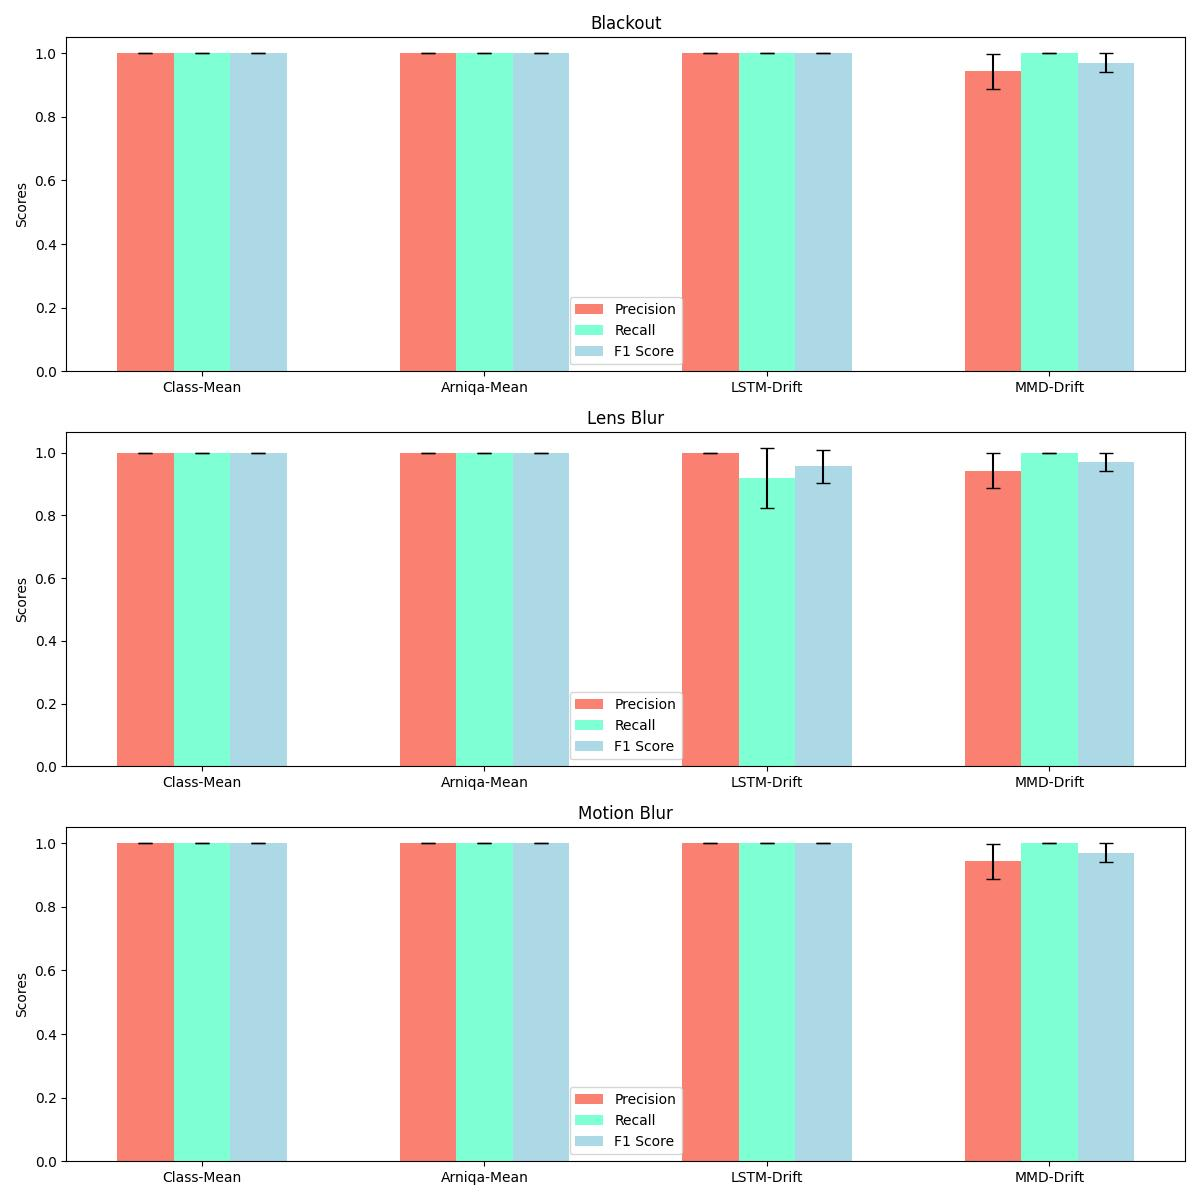
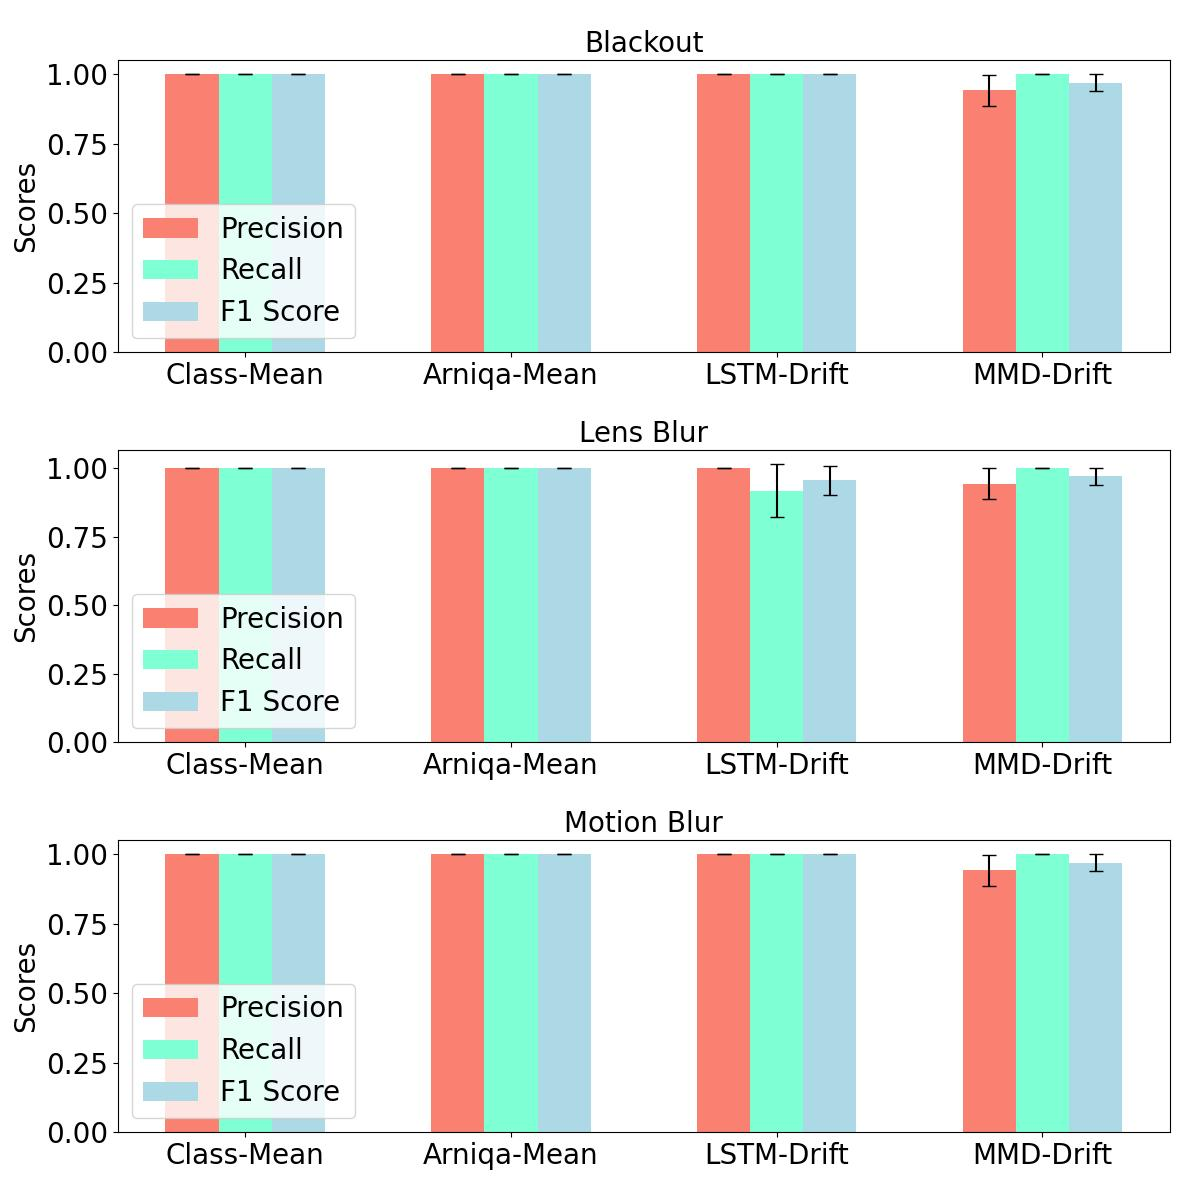
changes

diff --git a/tabs_and_plots.py b/tabs_and_plots.py
@@ -1,7 +1,7 @@
 import pandas as pd
 import matplotlib.pyplot as plt
 from tabulate import tabulate
-
+import sys
 #stats_df = pd.read_csv('stats.csv')
 stats_df = pd.read_csv('stats.csv.stable')
 
@@ -52,10 +52,10 @@ for i in range(0,3):
     print()
 
 
-fig, axes = plt.subplots(nrows=4, ncols=1,figsize=(10, 8))
-plot_df = pd.read_csv('diagnostic_values.csv')
-#plot_df = pd.read_csv('diagnostic_values.csv.stable')
-
+fig, axes = plt.subplots(nrows=3, ncols=1,figsize=(10, 8))
+plot_df = pd.read_csv(str(sys.argv[1]))
+# plot_df = pd.read_csv('diagnostic_values.csv.stable')
+plt.rcParams.update({'font.size': 17})
 tape = plot_df["window_tape"][0].strip("[]").split(", ")
 
 plot_df = plot_df.rename(columns={'drift_p_val':'p-value', 'driftref':'lower warning limit', 
@@ -65,39 +65,40 @@ plot_df = plot_df.rename(columns={'drift_p_val':'p-value', 'driftref':'lower war
                                   }
                                   )
 
-plot_df[["p-value", "lower warning limit"]].plot(ax=axes[3], yticks=[0.05, 1.0], style=["-", "-."], color=['#1f77b4', 'red'])
-axes[3].axvline(x=int(tape[0]), ymin=0, ymax=1, color="gray", linestyle="-.")
-axes[3].axvline(x=int(tape[1])-1, ymin=0, ymax=1, color="gray", linestyle="-.")
-axes[3].fill_betweenx([0,1], int(tape[0]), int(tape[1])-1, color="gray", alpha=0.2)
-axes[3].fill_betweenx([0.0, 0.05], 0, len(plot_df)-1, color="red", alpha=0.2 )
-axes[3].set_ylabel("mmd drift")
+
 
 plot_df = plot_df.rename(columns={'mean_image_quality':'mean image quality', 'iqref':'lower warning limit'})
-plot_df[["mean image quality", "iq lower warning limit"]].plot(ax=axes[1], yticks=[1.0, plot_df['iq lower warning limit'][0], 0.0], style=["-", "-."], color=['#1f77b4', 'red'])
-axes[1].axvline(x=int(tape[0]), ymin=0, ymax=1, color="gray", linestyle="-.")
-axes[1].axvline(x=int(tape[1])-1, ymin=0, ymax=1, color="gray", linestyle="-.")
-axes[1].fill_betweenx([0,1], int(tape[0]), int(tape[1])-1, color="gray", alpha=0.2)
-axes[1].fill_betweenx([0.0, plot_df['iq lower warning limit'][0]], 0, len(plot_df)-1, color="red", alpha=0.2 )
-axes[1].set_ylabel("arniqa mean")
-
-
-plot_df[["lstm drift detection", "lstm upper warning limit"]].plot(ax=axes[2], yticks=[1.0, 0.5, 0.0], style=["-", "-."], color=['#1f77b4', 'red'])
-axes[2].axvline(x=int(tape[0]), ymin=0, ymax=1, color="gray", linestyle="-.")
-axes[2].axvline(x=int(tape[1])-1, ymin=0, ymax=1, color="gray", linestyle="-.")
-axes[2].fill_betweenx([0,1], int(tape[0]), int(tape[1])-1, color="gray", alpha=0.2)
-axes[2].fill_betweenx([0.5, 1.0], 0, len(plot_df)-1, color="red", alpha=0.2 )
-axes[2].set_ylabel("lstm drift")
-
-
-plot_df[["classification mean", "class mean upper warning limit"]].plot(ax=axes[0], yticks=[1.0, 0.5, 0.0], style=["-", "-."], color=['#1f77b4', 'red'])
+plot_df[["mean image quality", "iq lower warning limit"]].plot(ax=axes[0], yticks=[1.0, plot_df['iq lower warning limit'][0], 0.0], style=["-", "-."], color=['#1f77b4', 'red'], fontsize=20)
 axes[0].axvline(x=int(tape[0]), ymin=0, ymax=1, color="gray", linestyle="-.")
 axes[0].axvline(x=int(tape[1])-1, ymin=0, ymax=1, color="gray", linestyle="-.")
 axes[0].fill_betweenx([0,1], int(tape[0]), int(tape[1])-1, color="gray", alpha=0.2)
-axes[0].fill_betweenx([0.5, 1.0], 0, len(plot_df)-1, color="red", alpha=0.2 )
-axes[0].set_ylabel("class mean")
+axes[0].fill_betweenx([0.0, plot_df['iq lower warning limit'][0]], 0, len(plot_df)-1, color="red", alpha=0.2 )
+axes[0].set_ylabel("arniqa mean", fontsize=20)
 
-axes[3].set_xlabel("# of 24-frame instances")
-plt.savefig("zurich_blackout_44.jpg")
+
+plot_df[["lstm drift detection", "lstm upper warning limit"]].plot(ax=axes[1], yticks=[1.0, 0.5, 0.0], style=["-", "-."], color=['#1f77b4', 'red'], fontsize=20)
+axes[1].axvline(x=int(tape[0]), ymin=0, ymax=1, color="gray", linestyle="-.")
+axes[1].axvline(x=int(tape[1])-1, ymin=0, ymax=1, color="gray", linestyle="-.")
+axes[1].fill_betweenx([0,1], int(tape[0]), int(tape[1])-1, color="gray", alpha=0.2)
+axes[1].fill_betweenx([0.5, 1.0], 0, len(plot_df)-1, color="red", alpha=0.2 )
+axes[1].set_ylabel("lstm drift", fontsize=20)
+
+plot_df[["p-value", "lower warning limit"]].plot(ax=axes[2], yticks=[0.05, 1.0], style=["-", "-."], color=['#1f77b4', 'red'], fontsize=20)
+axes[2].axvline(x=int(tape[0]), ymin=0, ymax=1, color="gray", linestyle="-.")
+axes[2].axvline(x=int(tape[1])-1, ymin=0, ymax=1, color="gray", linestyle="-.")
+axes[2].fill_betweenx([0,1], int(tape[0]), int(tape[1])-1, color="gray", alpha=0.2)
+axes[2].fill_betweenx([0.0, 0.05], 0, len(plot_df)-1, color="red", alpha=0.2 )
+axes[2].set_ylabel("mmd drift", fontsize=20)
+
+# plot_df[["classification mean", "class mean upper warning limit"]].plot(ax=axes[0], yticks=[1.0, 0.5, 0.0], style=["-", "-."], color=['#1f77b4', 'red'])
+# axes[0].axvline(x=int(tape[0]), ymin=0, ymax=1, color="gray", linestyle="-.")
+# axes[0].axvline(x=int(tape[1])-1, ymin=0, ymax=1, color="gray", linestyle="-.")
+# axes[0].fill_betweenx([0,1], int(tape[0]), int(tape[1])-1, color="gray", alpha=0.2)
+# axes[0].fill_betweenx([0.5, 1.0], 0, len(plot_df)-1, color="red", alpha=0.2 )
+# axes[0].set_ylabel("class mean")
+
+axes[2].set_xlabel("# of 24-frame instances", fontsize=20)
+plt.savefig(sys.argv[1]+".jpg")
 
 
 # plt.subplot(3, 1, 1)

diff --git a/dataloaders.py b/dataloaders.py
@@ -5,6 +5,8 @@ import numpy as np
 from PIL import Image
 import torchvision.transforms.v2 as T
 import distortions as dstr_all
+import matplotlib.pyplot as plt
+
 # dstr = [
 #     'gaussian_blur', 'blackout', 'motion_blur', 'brighten', 'color_block', 'color_diffusion', 
 #     'color_saturation1', 'color_saturation2', 'color_shift', 
@@ -82,26 +84,27 @@ class VideoFootage(Dataset):
 
         image = preproc(image)
 
-        # plt.rcParams["savefig.bbox"] = 'tight'
+        plt.rcParams["savefig.bbox"] = 'tight'
+        plt.rcParams.update({'font.size': 17})
 
-        # def disp(imgs):
-        #     if not isinstance(imgs, list):
-        #         imgs = [imgs]
-        #     _, axs = plt.subplots(ncols=len(imgs), squeeze=False, figsize=(20,12))
-        #     legnd = ["original", "lens blur", "motion blur", "blackout"]
-        #     for i, img in enumerate(imgs):
-        #         img = img.detach()
-        #         img = img.permute(1,2,0)
-        #         axs[0, i].imshow(np.asarray(img))
-        #         axs[0, i].set(xticklabels=[], yticklabels=[], xticks=[], yticks=[])
-        #         axs[0, i].set_xlabel(legnd[i], fontsize = 20)
+        def disp(imgs):
+            if not isinstance(imgs, list):
+                imgs = [imgs]
+            _, axs = plt.subplots(ncols=len(imgs), squeeze=False, figsize=(20,12))
+            legnd = ["original", "lens blur", "motion blur", "blackout"]
+            for i, img in enumerate(imgs):
+                img = img.detach()
+                img = img.permute(1,2,0)
+                axs[0, i].imshow(np.asarray(img))
+                axs[0, i].set(xticklabels=[], yticklabels=[], xticks=[], yticks=[])
+                axs[0, i].set_xlabel(legnd[i], fontsize = 20)
 
-        # disp_preproc =  T.Compose([T.CenterCrop(size=384), T.ToImage(), T.ToDtype(torch.float32, scale=True)])
-        # disp_image = disp_preproc(disp_image)
-        # grid = [disp_image, dstr_all.lens_blur(disp_image), dstr_all.motion_blur(disp_image), dstr_all.darken(disp_image)]
-        # disp(grid)
-        # plt.savefig("samples.jpg")
-        # quit()
+        disp_preproc =  T.Compose([T.CenterCrop(size=384), T.ToImage(), T.ToDtype(torch.float32, scale=True)])
+        disp_image = disp_preproc(disp_image)
+        grid = [disp_image, dstr_all.lens_blur(disp_image), dstr_all.motion_blur(disp_image), dstr_all.darken(disp_image)]
+        disp(grid)
+        plt.savefig("samples.jpg")
+        quit()
 
         if self.distort and idx in self.tape:
             dist_idx = self.dist_map[idx]

diff --git a/tab_barplots_stable.py b/tab_barplots_stable.py
@@ -4,6 +4,7 @@ import numpy as np
 issues = ['Blackout', 'Lens Blur', 'Motion Blur']
 methods = ['Class-Mean', 'Arniqa-Mean', 'LSTM-Drift', 'MMD-Drift']
 colors = ['salmon', 'aquamarine', 'lightblue']
+plt.rcParams.update({'font.size': 20})
 
 precision = {
     'Blackout': [0.93, 1.0, 0.893, 0.85],
@@ -183,10 +184,10 @@ for i, issue in enumerate(issues):
     rects3 = ax[i].bar(x + width, f1_score[issue], width, yerr=std_dev_f1[issue], capsize=5, label='F1 Score', color=colors[2])
     
     ax[i].set_ylabel('Scores')
-    ax[i].set_title(issue)
+    ax[i].set_title(issue, fontsize=20)
     ax[i].set_xticks(x)
-    ax[i].set_xticklabels(methods)
-    ax[i].legend()
+    ax[i].set_xticklabels(methods, fontsize=20)
+    ax[i].legend(fontsize=20)
 
 fig.tight_layout()
 

diff --git a/main.py b/main.py
@@ -414,7 +414,7 @@ data = [
 
 ]
 
-with open('diagnostic_values_'+test_dataset+'_'+args.seed+'.csv', 'w', newline='') as csvfile:
+with open('diagnostic_values_'+test_dataset[0]+'_'+str(args.seed)+"_"+distortion[0]+'.csv', 'w', newline='') as csvfile:
     writer = csv.writer(csvfile, delimiter=',', quoting=csv.QUOTE_MINIMAL)
     writer.writerow(["class_mean","drift_p_val", "mean_image_quality", "lstm_drift_detect",  "classmeanref",   "driftref", "iqref", "lstmref", "window_tape"])
     for cm, dr,iq,ls in zip(all_cl_mean_values, all_drift_p_values, mean_iqscore_values, all_lstm_mean_values):
